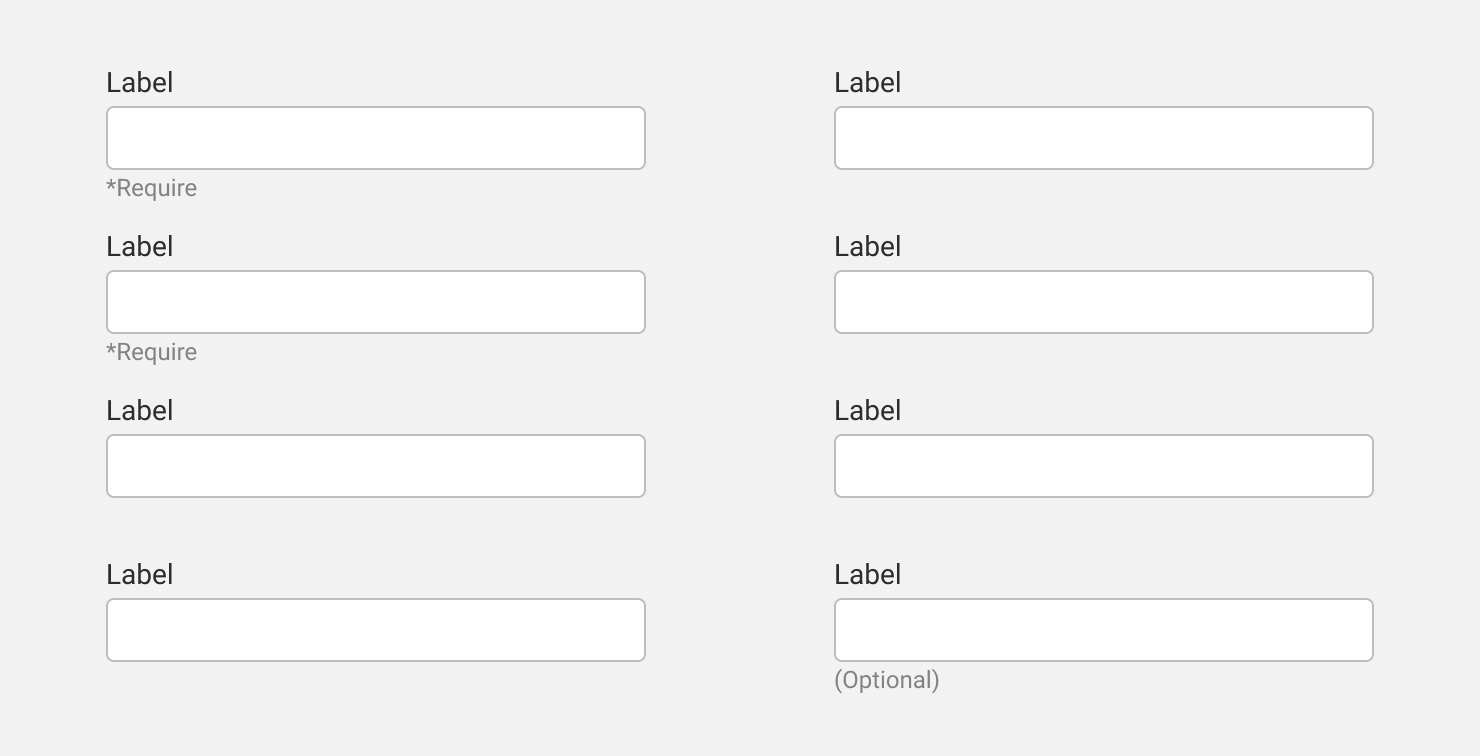
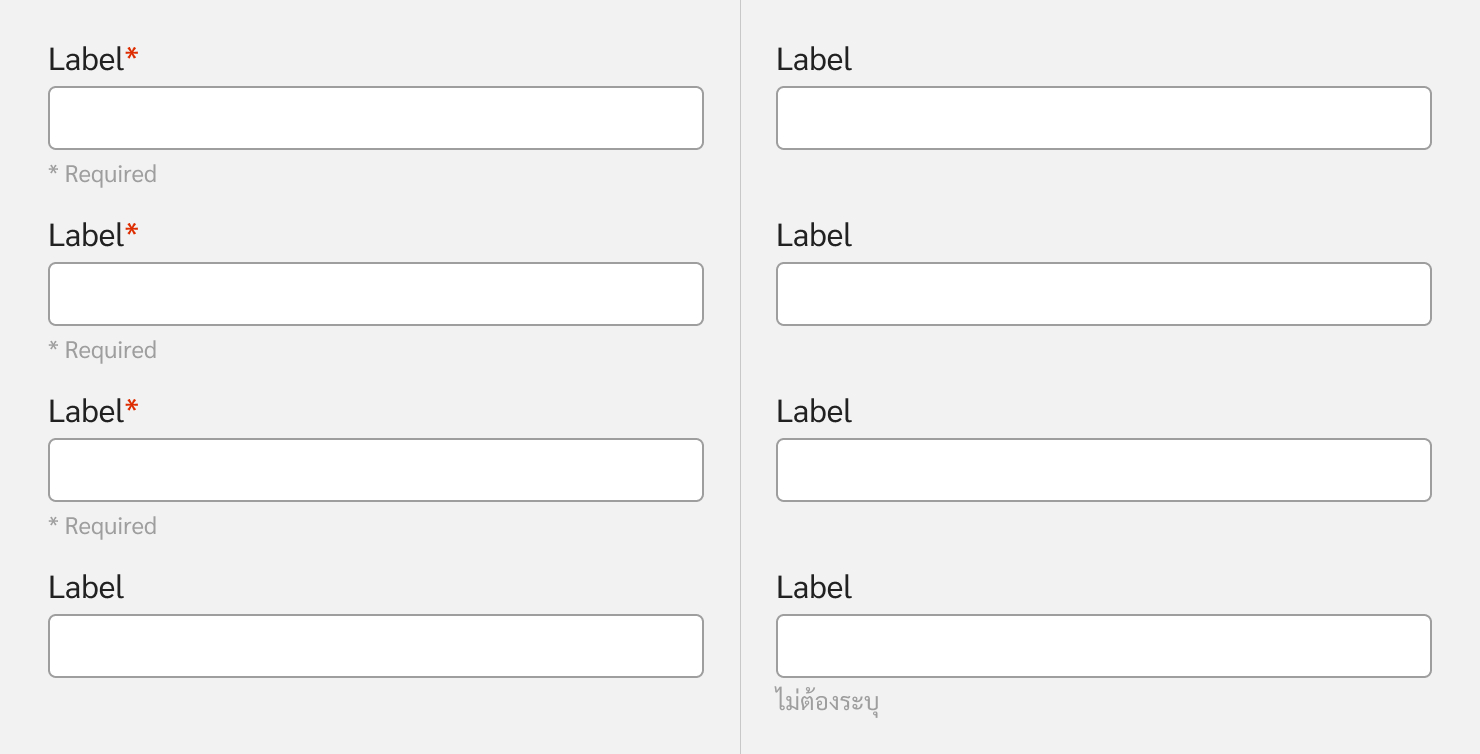
Update

diff --git a/guideline-element.html b/guideline-element.html
@@ -143,7 +143,8 @@
 <p><img src="images/text-box/Text-Box-TypeStandard.jpg" alt="Test"></p>
 <h5 id="inline-label-text-field">&#xE41;&#xE1A;&#xE1A;&#xE1B;&#xE49;&#xE32;&#xE22;&#xE0A;&#xE37;&#xE48;&#xE2D;&#xE2D;&#xE22;&#xE39;&#xE48;&#xE23;&#xE30;&#xE19;&#xE32;&#xE1A;&#xE40;&#xE14;&#xE35;&#xE22;&#xE27;&#xE01;&#xE31;&#xE19;&#xE0A;&#xE48;&#xE2D;&#xE07;&#xE01;&#xE23;&#xE2D;&#xE01; / Inline label text-field</h5>
 <p><img src="images/text-box/Text-Box-TypeinlineDo.jpg" alt="Test">
-<img src="images/text-box/Text-Box-TypeinlineDont.jpg" alt="Test"></p>
+<img src="images/text-box/Text-Box-TypeinlineDont.jpg" alt="Test">
+&#xE1B;&#xE49;&#xE32;&#xE22;&#xE0A;&#xE37;&#xE48;&#xE2D; - &#xE0A;&#xE48;&#xE2D;&#xE07;&#xE01;&#xE23;&#xE2D;&#xE01;&#xE15;&#xE49;&#xE2D;&#xE07;&#xE2D;&#xE22;&#xE39;&#xE48;&#xE43;&#xE01;&#xE25;&#xE49;&#xE01;&#xE31;&#xE19;&#xE43;&#xE2B;&#xE49;&#xE21;&#xE32;&#xE01;&#xE17;&#xE35;&#xE48;&#xE2A;&#xE38;&#xE14; &#xE2B;&#xE32;&#xE01;&#xE2B;&#xE48;&#xE32;&#xE07;&#xE01;&#xE31;&#xE19;&#xE21;&#xE32;&#xE01;&#xE08;&#xE30;&#xE17;&#xE33;&#xE43;&#xE2B;&#xE49;&#xE1B;&#xE23;&#xE30;&#xE2A;&#xE34;&#xE17;&#xE18;&#xE34;&#xE20;&#xE32;&#xE1E;&#xE25;&#xE14;&#xE25;&#xE07;</p>
 <h4 id>&#xE42;&#xE04;&#xE23;&#xE07;&#xE2A;&#xE23;&#xE49;&#xE32;&#xE07;</h4>
 <p><img src="images/text-box/Text-Box-Anatomy.jpg" alt="Test"></p>
 <ol>
@@ -158,7 +159,7 @@
 <p><img src="images/text-box/Text-Box-State.jpg" alt="Test"></p>
 <h4 id>&#xE0A;&#xE48;&#xE2D;&#xE07;&#xE17;&#xE35;&#xE48;&#xE08;&#xE33;&#xE40;&#xE1B;&#xE47;&#xE19;&#xE15;&#xE49;&#xE2D;&#xE07;&#xE01;&#xE23;&#xE2D;&#xE01;</h4>
 <p><img src="images/text-box/Text-Box-Indicator.jpg" alt="Test">
-&#xE16;&#xE49;&#xE32;&#xE2A;&#xE48;&#xE27;&#xE19;&#xE43;&#xE2B;&#xE0D;&#xE48;&#xE08;&#xE33;&#xE40;&#xE1B;&#xE47;&#xE19;&#xE15;&#xE49;&#xE2D;&#xE07;&#xE01;&#xE23;&#xE2D;&#xE01; &#xE43;&#xE2B;&#xE49;&#xE23;&#xE30;&#xE1A;&#xE38;&#xE0A;&#xE48;&#xE2D;&#xE07;&#xE01;&#xE23;&#xE2D;&#xE01;&#xE40;&#xE1B;&#xE47;&#xE19; (Optional) &#xE41;&#xE17;&#xE19; &#xE41;&#xE25;&#xE49;&#xE27;&#xE40;&#xE2D;&#xE32; * &#xE2D;&#xE2D;&#xE01;&#xE17;&#xE31;&#xE49;&#xE07;&#xE2B;&#xE21;&#xE14;</p>
+&#xE40;&#xE21;&#xE37;&#xE48;&#xE2D;&#xE43;&#xE14;&#xE01;&#xE47;&#xE15;&#xE32;&#xE21;&#xE17;&#xE35;&#xE48;&#xE08;&#xE33;&#xE19;&#xE27;&#xE19;&#xE02;&#xE2D;&#xE07;&#xE0A;&#xE48;&#xE2D;&#xE07;&#xE01;&#xE23;&#xE2D;&#xE01;&#xE17;&#xE35;&#xE48;&#xE15;&#xE49;&#xE2D;&#xE07;&#xE23;&#xE30;&#xE1A;&#xE38;&#xE1A;&#xE21;&#xE35;&#xE21;&#xE32;&#xE01;&#xE01;&#xE27;&#xE48;&#xE32;&#xE0A;&#xE48;&#xE2D;&#xE07;&#xE01;&#xE23;&#xE2D;&#xE01;&#xE17;&#xE35;&#xE48;&#xE40;&#xE27;&#xE49;&#xE19;&#xE27;&#xE48;&#xE32;&#xE07;&#xE44;&#xE14;&#xE49; &#xE43;&#xE2B;&#xE49;&#xE19;&#xE33; <strong>Required indicator</strong> &#xE2D;&#xE2D;&#xE01;&#xE17;&#xE31;&#xE49;&#xE07;&#xE2B;&#xE21;&#xE14;&#xE41;&#xE25;&#xE30;&#xE1A;&#xE2D;&#xE01;&#xE1C;&#xE39;&#xE49;&#xE43;&#xE0A;&#xE49;&#xE07;&#xE32;&#xE19;&#xE40;&#xE1E;&#xE35;&#xE22;&#xE07;&#xE41;&#xE04;&#xE48;&#xE27;&#xE48;&#xE32;&#xE0A;&#xE48;&#xE2D;&#xE07;&#xE43;&#xE2B;&#xE19;&#xE43;&#xE2B;&#xE49;&#xE1C;&#xE39;&#xE49;&#xE43;&#xE0A;&#xE49;&#xE07;&#xE32;&#xE19;&#xE02;&#xE49;&#xE32;&#xE21;&#xE44;&#xE14;&#xE49;</p>
 <h2 id="selection-control">Selection Control</h2>
 <p>&#xE01;&#xE32;&#xE23;&#xE43;&#xE0A;&#xE49;&#xE07;&#xE32;&#xE19; Selection Control &#xE41;&#xE15;&#xE48;&#xE25;&#xE30;&#xE0A;&#xE19;&#xE34;&#xE14;&#xE19;&#xE31;&#xE49;&#xE19; &#xE21;&#xE35;&#xE27;&#xE31;&#xE15;&#xE16;&#xE38;&#xE1B;&#xE23;&#xE30;&#xE2A;&#xE07;&#xE04;&#xE4C;&#xE43;&#xE19;&#xE01;&#xE32;&#xE23;&#xE43;&#xE0A;&#xE49;&#xE44;&#xE21;&#xE48;&#xE40;&#xE2B;&#xE21;&#xE37;&#xE2D;&#xE19;&#xE01;&#xE31;&#xE19;&#xE14;&#xE31;&#xE07;&#xE19;&#xE35;&#xE49;</p>
 <h4 id>&#xE40;&#xE21;&#xE37;&#xE48;&#xE2D;&#xE04;&#xE27;&#xE32;&#xE21;&#xE0A;&#xE31;&#xE14;&#xE40;&#xE08;&#xE19;&#xE41;&#xE25;&#xE30;&#xE04;&#xE27;&#xE32;&#xE21;&#xE23;&#xE27;&#xE14;&#xE40;&#xE23;&#xE47;&#xE27;&#xE40;&#xE1B;&#xE47;&#xE19;&#xE2A;&#xE34;&#xE48;&#xE07;&#xE2A;&#xE33;&#xE04;&#xE31;&#xE0D;&#xE17;&#xE35;&#xE48;&#xE2A;&#xE38;&#xE14;</h4>
